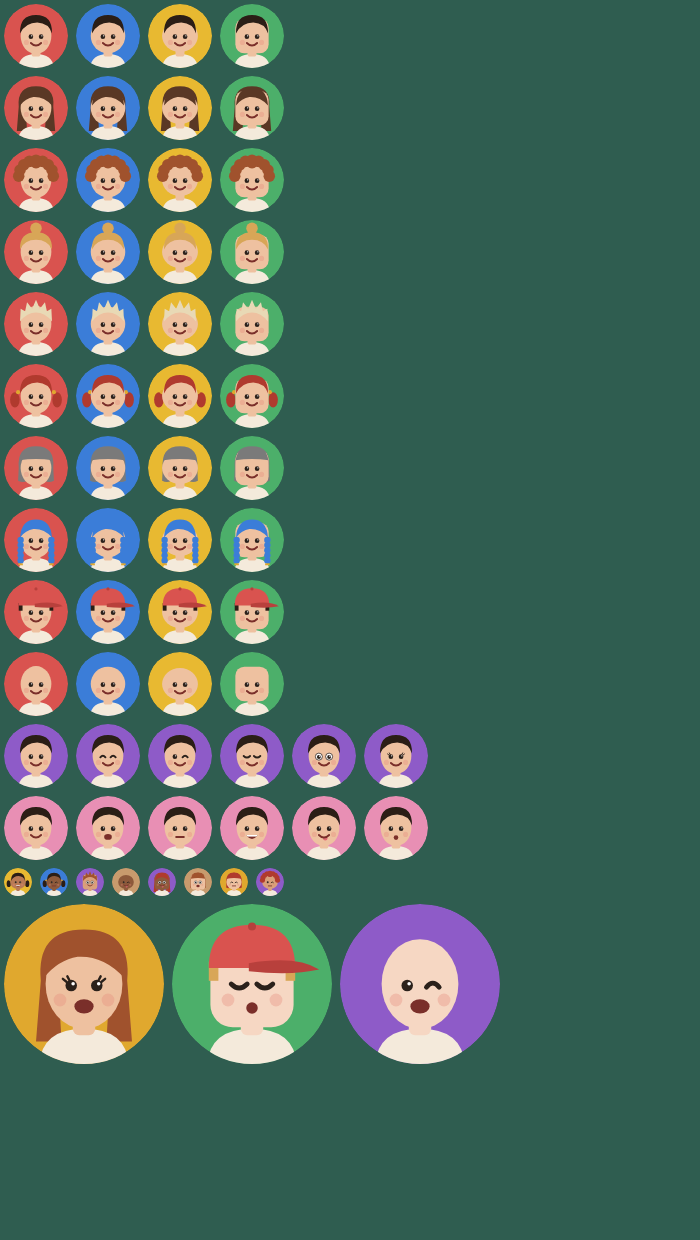
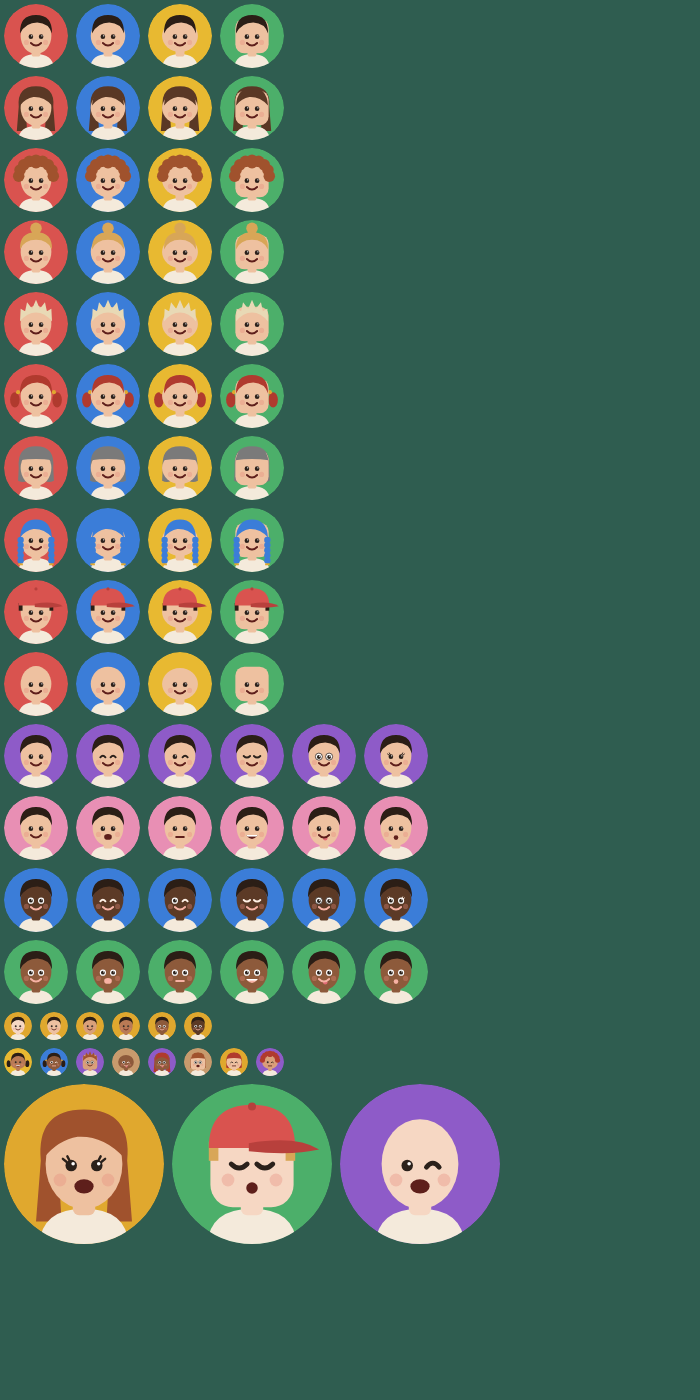
fix: screen-reader activation and face contrast on dark skin
- RoundIconButton, ColorSwatchPicker and editor variant tiles excluded
  their GestureDetector semantics and lost the tap action, so TalkBack
  could announce but not activate them. Semantics now carry onTap.
- Eyes and mouth had < 3:1 contrast on the darker skin tones; the two
  darkest get eye whites and light features, light skins a darker mouth.
  Golden sheet gains dark-skin rows.

Changed region(s): [[0.0, 0.0, 0.72, 0.8887]]

diff --git a/lib/ui_kit/avatar/avatar_painter.dart b/lib/ui_kit/avatar/avatar_painter.dart
@@ -5,7 +5,9 @@ import 'package:flutter/rendering.dart';
 import '../../core/avatar/avatar_spec.dart';
 
 const _ink = Color(0xFF2B211B);
-const _mouthColor = Color(0xFF7A2F2A);
+const _mouthColor = Color(0xFF5E1F1B);
+const _lightFeature = Color(0xFFFFF1E6);
+const _lightMouth = Color(0xFFF7B2A4);
 const _shirt = Color(0xFFF4EADB);
 const _cheek = Color(0x59E58A7A);
 const _capColor = Color(0xFFD9534F);
@@ -18,6 +20,13 @@ class AvatarPainter extends CustomPainter {
   AvatarPainter(this.spec);
 
   final AvatarSpec spec;
+
+  /// Colors of eye lines and the mouth for a skin tone, chosen for at least
+  /// 3:1 contrast. The two darkest tones get light features (and eye whites).
+  static ({Color eyes, Color mouth}) featureColors(int skin) =>
+      _isDarkSkin(skin) ? (eyes: _lightFeature, mouth: _lightMouth) : (eyes: _ink, mouth: _mouthColor);
+
+  static bool _isDarkSkin(int skin) => skin >= 4;
 
   @override
   void paint(Canvas canvas, Size size) {
@@ -63,12 +72,16 @@ class AvatarPainter extends CustomPainter {
   }
 
   void _eyes(Canvas canvas) {
+    final colors = featureColors(spec.skin);
+    final dark = _isDarkSkin(spec.skin);
     final fill = Paint()..color = _ink;
     final white = Paint()..color = const Color(0xFFFFFFFF);
-    final stroke = _stroke(_ink, 3);
+    final stroke = _stroke(colors.eyes, 3);
 
     void roundEye(double x) {
-      canvas.drawCircle(Offset(x, 51), 3.6, fill);
+      // On dark skin a dark pupil alone disappears; give it an eye white.
+      if (dark) canvas.drawCircle(Offset(x, 51), 4.8, white);
+      canvas.drawCircle(Offset(x, 51), dark ? 3 : 3.6, fill);
       canvas.drawCircle(Offset(x + 1.2, 49.8), 1.1, white);
     }
 
@@ -108,7 +121,7 @@ class AvatarPainter extends CustomPainter {
       case EyeStyle.lashes:
         roundEye(42);
         roundEye(58);
-        final lash = _stroke(_ink, 1.5);
+        final lash = _stroke(colors.eyes, 1.5);
         for (final (x, dir) in [(42.0, -1.0), (58.0, 1.0)]) {
           canvas.drawLine(Offset(x + 3 * dir, 48.6), Offset(x + 5.2 * dir, 46.8), lash);
           canvas.drawLine(Offset(x + 1.2 * dir, 47.5), Offset(x + 2.4 * dir, 45.2), lash);
@@ -117,18 +130,19 @@ class AvatarPainter extends CustomPainter {
   }
 
   void _mouth(Canvas canvas) {
-    final fill = Paint()..color = _mouthColor;
+    final mouthColor = featureColors(spec.skin).mouth;
+    final fill = Paint()..color = mouthColor;
     final smile = Path()
       ..moveTo(42, 61)
       ..quadraticBezierTo(50, 69, 58, 61);
 
     switch (spec.mouth) {
       case MouthStyle.smile:
-        canvas.drawPath(smile, _stroke(_mouthColor, 3));
+        canvas.drawPath(smile, _stroke(mouthColor, 3));
       case MouthStyle.open:
         canvas.drawOval(Rect.fromCenter(center: const Offset(50, 64), width: 12, height: 9), fill);
       case MouthStyle.flat:
-        canvas.drawLine(const Offset(44, 64), const Offset(56, 64), _stroke(_mouthColor, 3));
+        canvas.drawLine(const Offset(44, 64), const Offset(56, 64), _stroke(mouthColor, 3));
       case MouthStyle.grin:
         final grin = Path()
           ..moveTo(41, 61)
@@ -141,7 +155,7 @@ class AvatarPainter extends CustomPainter {
         canvas.restore();
       case MouthStyle.tongue:
         canvas.drawOval(Rect.fromCenter(center: const Offset(52, 66.5), width: 7, height: 6), Paint()..color = const Color(0xFFE06C75));
-        canvas.drawPath(smile, _stroke(_mouthColor, 3));
+        canvas.drawPath(smile, _stroke(mouthColor, 3));
       case MouthStyle.surprised:
         canvas.drawCircle(const Offset(50, 65), 3.6, fill);
     }

diff --git a/test/ui_kit/avatar/avatar_view_test.dart b/test/ui_kit/avatar/avatar_view_test.dart
@@ -73,7 +73,7 @@ void main() {
 
   testWidgets('golden: avatar sheet', (tester) async {
     tester.view.devicePixelRatio = 1.0;
-    tester.view.physicalSize = const Size(700, 1240);
+    tester.view.physicalSize = const Size(700, 1400);
     addTearDown(tester.view.reset);
 
     Widget cell(AvatarSpec spec, double size) =>
@@ -95,6 +95,14 @@ void main() {
           Row(children: [
             for (final mouth in MouthStyle.values) cell(AvatarSpec.defaults.copyWith(mouth: mouth, background: 6), 64),
           ]),
+          // Darkest skin tones: eyes and mouth must stay visible.
+          Row(children: [
+            for (final eyes in EyeStyle.values) cell(AvatarSpec.defaults.copyWith(eyes: eyes, skin: 5, background: 1), 64),
+          ]),
+          Row(children: [
+            for (final mouth in MouthStyle.values) cell(AvatarSpec.defaults.copyWith(mouth: mouth, skin: 4, background: 3), 64),
+          ]),
+          Row(children: [for (var skin = 0; skin < 6; skin++) cell(AvatarSpec.defaults.copyWith(skin: skin), 28)]),
           Row(children: [for (var i = 0; i < 8; i++) cell(AvatarSpec.random(rnd), 28)]),
           Row(children: [for (var i = 0; i < 3; i++) cell(AvatarSpec.random(rnd), 160)]),
         ],

diff --git a/test/features/avatar_editor/avatar_editor_screen_test.dart b/test/features/avatar_editor/avatar_editor_screen_test.dart
@@ -156,6 +156,27 @@ void main() {
     expect(tester.getSemantics(find.bySemanticsLabel('dlouhé')).flagsCollection.isSelected, isNot(Tristate.isTrue));
   });
 
+  testWidgets('screen-reader double tap activates variants, swatches, Random and Back', (tester) async {
+    final harness = await _pumpEditor(tester, random: Random(1));
+    await _tapTab(tester, 'Vlasy');
+
+    tester.semantics.tap(find.semantics.byLabel('dlouhé'));
+    await tester.pumpAndSettle();
+    expect(_preview(tester).hair, HairStyle.long);
+
+    tester.semantics.tap(find.semantics.byLabel('zrzavá'));
+    await tester.pumpAndSettle();
+    expect(_preview(tester).hairColor, 5);
+
+    tester.semantics.tap(find.semantics.byLabel('Náhodně'));
+    await tester.pumpAndSettle();
+    expect(_preview(tester), AvatarSpec.random(Random(1)));
+
+    tester.semantics.tap(find.semantics.byLabel('Zpět'));
+    await tester.pumpAndSettle();
+    expect(harness.popped, isTrue);
+  });
+
   testWidgets('all touch targets are at least 48 dp on a 360 dp phone', (tester) async {
     await _pumpEditor(tester);
     for (final tab in ['Obličej', 'Pleť', 'Vlasy', 'Oči', 'Ústa', 'Pozadí']) {

diff --git a/test/ui_kit/avatar/avatar_contrast_test.dart b/test/ui_kit/avatar/avatar_contrast_test.dart
@@ -1,0 +1,22 @@
+import 'package:deskovky/core/avatar/avatar_spec.dart';
+import 'package:deskovky/ui_kit/avatar/avatar_painter.dart';
+import 'package:flutter/painting.dart';
+import 'package:flutter_test/flutter_test.dart';
+
+double _contrast(Color a, Color b) {
+  final la = a.computeLuminance();
+  final lb = b.computeLuminance();
+  final (hi, lo) = la > lb ? (la, lb) : (lb, la);
+  return (hi + 0.05) / (lo + 0.05);
+}
+
+void main() {
+  for (var skin = 0; skin < AvatarPalette.skin.length; skin++) {
+    test('eyes and mouth stand out on skin tone $skin (contrast >= 3:1)', () {
+      final features = AvatarPainter.featureColors(skin);
+      final skinColor = AvatarPalette.skin[skin];
+      expect(_contrast(features.eyes, skinColor), greaterThanOrEqualTo(3), reason: 'eyes');
+      expect(_contrast(features.mouth, skinColor), greaterThanOrEqualTo(3), reason: 'mouth');
+    });
+  }
+}

diff --git a/test/ui_kit/components/color_swatch_picker_test.dart b/test/ui_kit/components/color_swatch_picker_test.dart
@@ -18,6 +18,8 @@ void main() {
     )));
     await tester.tap(find.bySemanticsLabel('modrá'));
     expect(picked, 2);
+    tester.semantics.tap(find.semantics.byLabel('zelená'));
+    expect(picked, 1, reason: 'screen readers can activate a swatch');
     expect(tester.getSemantics(find.bySemanticsLabel('červená')).flagsCollection.isSelected, Tristate.isTrue);
     expect(tester.getSemantics(find.bySemanticsLabel('zelená')).flagsCollection.isSelected, isNot(Tristate.isTrue));
     for (final label in ['červená', 'zelená', 'modrá']) {

diff --git a/lib/features/avatar_editor/avatar_editor_screen.dart b/lib/features/avatar_editor/avatar_editor_screen.dart
@@ -330,6 +330,8 @@ class _VariantGrid extends StatelessWidget {
                 button: true,
                 selected: selected,
                 label: label,
+                // excludeSemantics drops the detector's tap action; keep it for screen readers.
+                onTap: () => onSelected(spec),
                 excludeSemantics: true,
                 child: GestureDetector(
                   onTap: () => onSelected(spec),

diff --git a/lib/ui_kit/components/color_swatch_picker.dart b/lib/ui_kit/components/color_swatch_picker.dart
@@ -30,6 +30,8 @@ class ColorSwatchPicker extends StatelessWidget {
             button: true,
             selected: i == selected,
             label: semanticLabels[i],
+            // excludeSemantics drops the detector's tap action; keep it for screen readers.
+            onTap: () => onSelected(i),
             excludeSemantics: true,
             child: GestureDetector(
               onTap: () => onSelected(i),

diff --git a/lib/ui_kit/components/round_icon_button.dart b/lib/ui_kit/components/round_icon_button.dart
@@ -24,6 +24,9 @@ class RoundIconButton extends StatelessWidget {
       button: true,
       enabled: onPressed != null,
       label: tooltip,
+      // excludeSemantics drops the detector's tap action, so screen readers
+      // need it here explicitly.
+      onTap: onPressed,
       excludeSemantics: true,
       child: Tooltip(
         message: tooltip,

diff --git a/test/ui_kit/components/round_icon_button_test.dart b/test/ui_kit/components/round_icon_button_test.dart
@@ -17,6 +17,8 @@ void main() {
     expect(find.bySemanticsLabel('Zvuk'), findsOneWidget);
     await tester.tap(find.byType(RoundIconButton));
     expect(taps, 1);
+    tester.semantics.tap(find.semantics.byLabel('Zvuk'));
+    expect(taps, 2, reason: 'screen readers can activate it');
     handle.dispose();
   });
 }
